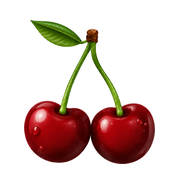
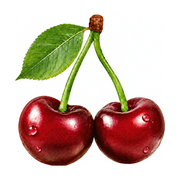
싸바 앱 아이콘을 대표님이 캔바에서 만든 체리로 교체 (아이콘엔 체리만, 원본 두 장은 img/brand에 보관)
Claude-Session: https://claude.ai/code/session_01Q9nWZmtbFZTe1yRcZqT8pD

diff --git a/join/index.html b/join/index.html
@@ -3,7 +3,7 @@
 <meta name="viewport" content="width=device-width, initial-scale=1, viewport-fit=cover">
 <title>싸바 회원가입</title><meta name="theme-color" content="#B3132B">
 <meta name="robots" content="noindex">
-<link rel="icon" href="../img/favicon.png?v=2"><link rel="stylesheet" href="../css/brand.css">
+<link rel="icon" href="../img/favicon.png?v=3"><link rel="stylesheet" href="../css/brand.css">
 <style>
 *{box-sizing:border-box}html,body{margin:0;background:#fff;color:var(--ink);font-family:var(--font)}
 [hidden]{display:none!important}
@@ -41,7 +41,7 @@ table{width:100%;border-collapse:collapse;margin:8px 0;font-size:13px}th,td{bord
 
 <!-- 1) 로그인 전 -->
 <section id="vLogin" hidden>
-  <div class="hero"><img src="../img/icon-192.png?v=2" alt=""><h1><em>싸바</em> 무료 회원가입</h1><p class="sub">카카오로 1초 만에 시작해요.<br>비밀번호는 만들지 않아요.</p></div>
+  <div class="hero"><img src="../img/icon-192.png?v=3" alt=""><h1><em>싸바</em> 무료 회원가입</h1><p class="sub">카카오로 1초 만에 시작해요.<br>비밀번호는 만들지 않아요.</p></div>
   <div class="err" id="err" hidden></div>
   <a class="kakao" id="kakaoGo" href="/api/auth/kakao"><svg viewBox="0 0 24 24"><path fill="#191919" d="M12 3C6.5 3 2 6.6 2 11c0 2.8 1.8 5.3 4.6 6.7l-1 3.6c-.1.3.3.6.6.4l4.2-2.8c.5.1 1.1.1 1.6.1 5.5 0 10-3.6 10-8S17.5 3 12 3z"/></svg>카카오로 시작하기</a>
   <details class="codein" style="margin:14px 0 4px;padding:12px 14px;border-radius:14px;background:#f6f3ef"><summary style="font-weight:800;cursor:pointer">📱 다른 곳에서 이미 로그인했어요 (숫자로 로그인)</summary>
@@ -83,7 +83,7 @@ table{width:100%;border-collapse:collapse;margin:8px 0;font-size:13px}th,td{bord
 
 <!-- 3) 로그인됨 -->
 <section id="vMe" class="me" hidden>
-  <div class="hero"><img src="../img/icon-192.png?v=2" alt=""><div class="nick" id="mNick"></div></div>
+  <div class="hero"><img src="../img/icon-192.png?v=3" alt=""><div class="nick" id="mNick"></div></div>
   <div style="display:flex;gap:8px;margin-bottom:12px"><input class="al" id="mAlias" maxlength="10" aria-label="별명"><button type="button" id="mAliasGo" style="width:auto;margin:0;padding:0 18px">별명 저장</button></div>
   <label class="tog"><span>이벤트·혜택 소식 받기</span><input type="checkbox" id="mMkt"></label>
   <button type="button" id="codeGet" style="background:#1E2A44;color:#fff">📱 다른 곳에서 로그인할 숫자 받기</button>

diff --git a/lucky/index.html b/lucky/index.html
@@ -13,8 +13,8 @@
   <meta property="og:description" content="정확히 7.00초에 누르면 잭팟! 100분의 1초 승부. 너도 해 봐.">
   <meta property="og:image" content="https://sava.kr/img/lucky-share.png?v=2">
   <link rel="manifest" href="../manifest.webmanifest">
-  <link rel="icon" href="../img/favicon.png?v=2">
-  <link rel="apple-touch-icon" href="../img/apple-touch-icon.png?v=2">
+  <link rel="icon" href="../img/favicon.png?v=3">
+  <link rel="apple-touch-icon" href="../img/apple-touch-icon.png?v=3">
   <meta name="apple-mobile-web-app-title" content="싸바">
   <style>
     :root { --red: #B3132B; --deep: #8E0A1C; --gold: #FFE3A3; --gold2: #FFE3A3; --bg: #B3132B; --card: #FFFFFF; --line: rgba(255,255,255,.22); --ink: #1E1E1E; --dim: rgba(255,255,255,.78); --font: -apple-system, BlinkMacSystemFont, "Apple SD Gothic Neo", "Pretendard", "Noto Sans KR", sans-serif; }

diff --git a/fly/index.html b/fly/index.html
@@ -13,8 +13,8 @@
   <meta property="og:description" content="웽~ 소리가 뚝 그치는 순간 탁! 너는 입문이냐 신선이냐.">
   <meta property="og:image" content="https://sava.kr/img/fly-share.png?v=1">
   <link rel="manifest" href="../manifest.webmanifest">
-  <link rel="icon" href="../img/favicon.png?v=2">
-  <link rel="apple-touch-icon" href="../img/apple-touch-icon.png?v=2">
+  <link rel="icon" href="../img/favicon.png?v=3">
+  <link rel="apple-touch-icon" href="../img/apple-touch-icon.png?v=3">
   <meta name="apple-mobile-web-app-title" content="싸바">
   <style>
     :root { --gold: #B3132B; --acc: rgba(255,255,255,.78); --dim: rgba(255,255,255,.78); --line: rgba(255,255,255,.2); --ink: #1E1E1E; --card: #FFFFFF; --bg: #B3132B; --font: -apple-system, BlinkMacSystemFont, "Apple SD Gothic Neo", "Pretendard", "Noto Sans KR", sans-serif; }

diff --git a/pool/index.html b/pool/index.html
@@ -13,8 +13,8 @@
   <meta property="og:description" content="집에서 각자 폰으로! 당점·두께·밀어치기까지 진짜 쓰리쿠션">
   <meta property="og:image" content="https://sava.kr/img/pool-share.png?v=1">
   <link rel="manifest" href="../manifest.webmanifest">
-  <link rel="icon" href="../img/favicon.png?v=2">
-  <link rel="apple-touch-icon" href="../img/apple-touch-icon.png?v=2">
+  <link rel="icon" href="../img/favicon.png?v=3">
+  <link rel="apple-touch-icon" href="../img/apple-touch-icon.png?v=3">
   <meta name="apple-mobile-web-app-title" content="싸바">
   <style>
     :root { --bg: #F4F7FB; --card: #fff; --line: #DFE6F0; --ink: #1d2433; --dim: #6b7a90; --blue: #1d6fd1; --cherry: #B3142B; --gold: #F6C915; --font: -apple-system, BlinkMacSystemFont, "Apple SD Gothic Neo", "Pretendard", "Noto Sans KR", sans-serif; }

diff --git a/shoot/index.html b/shoot/index.html
@@ -13,8 +13,8 @@
   <meta property="og:description" content="친구들 이름으로 진짜 사다리 한판! 단톡방에서 다 같이 결과 보기.">
   <meta property="og:image" content="https://sava.kr/img/shoot-share.png?v=2">
   <link rel="manifest" href="../manifest.webmanifest">
-  <link rel="icon" href="../img/favicon.png?v=2">
-  <link rel="apple-touch-icon" href="../img/apple-touch-icon.png?v=2">
+  <link rel="icon" href="../img/favicon.png?v=3">
+  <link rel="apple-touch-icon" href="../img/apple-touch-icon.png?v=3">
   <meta name="apple-mobile-web-app-title" content="싸바">
   <style>
     :root { --red: #D3122F; --deep: #8E0A1C; --yel: #FFD84D; --ink: #1A1A1A; --dim: #6B6B6B; --line: #ECE6D6; --bg: #FFFBEF; --font: -apple-system, BlinkMacSystemFont, "Apple SD Gothic Neo", "Pretendard", "Noto Sans KR", sans-serif; }

diff --git a/sw.js b/sw.js
@@ -2,7 +2,7 @@
 var CACHE = 'sava-v209';
 var SHELL = ['./', './app/', './eodiya/', './lucky/', './shoot/', './fly/', './pool/', './emo/', './make/', './c/', './css/brand.css', './css/sk.css', './css/sk-world.css',
   './js/codec.js', './js/store.js', './js/designs.js', './js/render.js', './js/roster.js', './js/notice.js', './js/share.js', './js/msgimg.js', './js/install.js', './js/sound.js',
-  './img/icon-192.png?v=2', './img/cherry.svg', './img/cherry-dance-anim.svg', './manifest.webmanifest'];
+  './img/icon-192.png?v=3', './img/cherry.svg', './img/cherry-dance-anim.svg', './manifest.webmanifest'];
 self.addEventListener('install', function (e) {
   e.waitUntil(caches.open(CACHE).then(function (c) { return c.addAll(SHELL).catch(function () {}); }).then(function () { return self.skipWaiting(); }));
 });

diff --git a/js/install.js b/js/install.js
@@ -7,7 +7,7 @@
   // 예전 주소(ssaka-app.pages.dev)로 들어오면 정식 주소 sava.kr 로 옮김 (카톡 공유는 sava.kr 에서만 됨)
   if (location.hostname === 'ssaka-app.pages.dev') { location.replace('https://sava.kr' + location.pathname + location.search + location.hash); return; }
   var SELF = (document.currentScript && document.currentScript.src) || '';
-  var ICON = SELF ? SELF.replace(/js\/install\.js.*$/, 'img/icon-192.png?v=2') : '/img/icon-192.png?v=2';
+  var ICON = SELF ? SELF.replace(/js\/install\.js.*$/, 'img/icon-192.png?v=3') : '/img/icon-192.png?v=3';
   var ua = navigator.userAgent;
   var ios = /iPhone|iPad|iPod/i.test(ua) || (navigator.platform === 'MacIntel' && navigator.maxTouchPoints > 1);
   var inKakao = /KAKAOTALK/i.test(ua);

diff --git a/today/index.html b/today/index.html
@@ -8,7 +8,7 @@
   <meta property="og:title" content="☀ 오늘의 싸바 — 뉴스 요약 · 날씨 · 인기 검색어 · 건강 · 정부 혜택">
   <meta property="og:description" content="매일 보는 생활 채널을 싸바 안에서 한 번에. 대표님용 아침 뉴스 3줄, 우리 동네 날씨·미세먼지, 오늘의 인기 검색어, 어르신 건강, 정부 혜택.">
   <meta property="og:image" content="https://sava.kr/img/eodiya-hi.png?v=1">
-  <link rel="icon" href="../img/favicon.png?v=2">
+  <link rel="icon" href="../img/favicon.png?v=3">
   <link rel="stylesheet" href="../css/brand.css">
   <style>
     * { box-sizing: border-box; } [hidden] { display: none !important; }

diff --git a/app/index.html b/app/index.html
@@ -10,8 +10,8 @@
   <meta property="og:description" content="명함 · 가게 홍보 · 모임 공지 · 초대장을 10초 만에">
   <meta property="og:image" content="https://sava.kr/img/ssaka-share.png?v=5">
   <link rel="manifest" href="../manifest.webmanifest">
-  <link rel="icon" href="../img/favicon.png?v=2">
-  <link rel="apple-touch-icon" href="../img/apple-touch-icon.png?v=2">
+  <link rel="icon" href="../img/favicon.png?v=3">
+  <link rel="apple-touch-icon" href="../img/apple-touch-icon.png?v=3">
   <meta name="apple-mobile-web-app-capable" content="yes">
   <meta name="apple-mobile-web-app-title" content="싸바">
   <link rel="stylesheet" href="../css/brand.css">

diff --git a/privacy/index.html b/privacy/index.html
@@ -2,7 +2,7 @@
 <html lang="ko"><head><meta charset="utf-8">
 <meta name="viewport" content="width=device-width, initial-scale=1, viewport-fit=cover">
 <title>개인정보처리방침 · 싸바</title><meta name="theme-color" content="#B3132B">
-<link rel="icon" href="../img/favicon.png?v=2"><link rel="stylesheet" href="../css/brand.css">
+<link rel="icon" href="../img/favicon.png?v=3"><link rel="stylesheet" href="../css/brand.css">
 <style>
 *{box-sizing:border-box}html,body{margin:0;background:#fff;color:var(--ink);font-family:var(--font)}
 .w{max-width:680px;margin:0 auto;padding:calc(18px + env(safe-area-inset-top)) 20px 48px}

diff --git a/emo/index.html b/emo/index.html
@@ -12,8 +12,8 @@
   <meta property="og:description" content="움직이는 체리 이모티콘, 눌러서 카톡방에 바로 보내요. 전부 공짜!">
   <meta property="og:image" content="https://sava.kr/emo/g/e001.gif">
   <link rel="manifest" href="../manifest.webmanifest">
-  <link rel="icon" href="../img/favicon.png?v=2">
-  <link rel="apple-touch-icon" href="../img/apple-touch-icon.png?v=2">
+  <link rel="icon" href="../img/favicon.png?v=3">
+  <link rel="apple-touch-icon" href="../img/apple-touch-icon.png?v=3">
   <link rel="stylesheet" href="../css/brand.css">
   <style>
     [hidden] { display: none !important; }

diff --git a/terms/index.html b/terms/index.html
@@ -2,7 +2,7 @@
 <html lang="ko"><head><meta charset="utf-8">
 <meta name="viewport" content="width=device-width, initial-scale=1, viewport-fit=cover">
 <title>이용약관 · 싸바</title><meta name="theme-color" content="#B3132B">
-<link rel="icon" href="../img/favicon.png?v=2"><link rel="stylesheet" href="../css/brand.css">
+<link rel="icon" href="../img/favicon.png?v=3"><link rel="stylesheet" href="../css/brand.css">
 <style>
 *{box-sizing:border-box}html,body{margin:0;background:#fff;color:var(--ink);font-family:var(--font)}
 .w{max-width:680px;margin:0 auto;padding:calc(18px + env(safe-area-inset-top)) 20px 48px}
